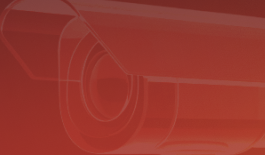
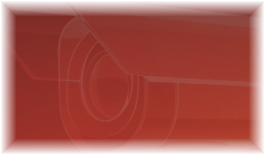
fix(visuals): eliminate rectangular artifacts, fix step wrapping, restore real technician photo and clean sphere photos

Changed region(s): [[0.0, 0.0, 1.0, 1.0]]

diff --git a/index.html b/index.html
@@ -299,7 +299,7 @@
             </p>
           </div>
 
-          <div class="relative w-full h-40 flex items-center justify-center mb-6">
+          <div class="relative w-full h-40 flex items-center justify-center mb-6 blend-hardware">
             <img src="/images/fire-figma.png" alt="Пожарная сигнализация" class="max-h-full object-contain filter drop-shadow-2xl transition-transform duration-300 group-hover:scale-105">
           </div>
 
@@ -320,7 +320,7 @@
             </p>
           </div>
 
-          <div class="relative w-full h-40 flex items-center justify-center mb-6">
+          <div class="relative w-full h-40 flex items-center justify-center mb-6 blend-hardware">
             <img src="/images/cctv-phone-figma.png" alt="Видеонаблюдение" class="max-h-full object-contain filter drop-shadow-2xl transition-transform duration-300 group-hover:scale-105">
           </div>
 
@@ -362,7 +362,7 @@
             </p>
           </div>
 
-          <div class="relative w-full h-40 flex items-center justify-center mb-6">
+          <div class="relative w-full h-40 flex items-center justify-center mb-6 blend-hardware">
             <img src="/images/sks-cables-figma.png" alt="СКС кабельные сети" class="max-h-full object-contain filter drop-shadow-2xl transition-transform duration-300 group-hover:scale-105">
           </div>
 
@@ -404,7 +404,7 @@
             </p>
           </div>
 
-          <div class="relative w-full h-40 flex items-center justify-center mb-6">
+          <div class="relative w-full h-40 flex items-center justify-center mb-6 blend-hardware">
             <img src="/images/project-doc-figma.png" alt="Проект и смета" class="max-h-full object-contain filter drop-shadow-2xl transition-transform duration-300 group-hover:scale-105">
           </div>
 
@@ -565,7 +565,7 @@
           <div class="stage-row is-active" data-step="1">
             <div class="flex flex-col sm:flex-row sm:items-baseline justify-between gap-4">
               <div class="flex items-center space-x-6">
-                <span class="font-mono text-sm px-3 py-1 border border-white/20 text-white/70 stage-num transition-colors">
+                <span class="font-mono text-sm px-3 py-1 border border-white/20 text-white/70 stage-num transition-colors whitespace-nowrap shrink-0">
                   [ 01 ]
                 </span>
                 <h3 class="stage-title font-condensed font-extrabold text-2xl sm:text-3xl uppercase text-white transition-colors">
@@ -582,7 +582,7 @@
           <div class="stage-row" data-step="2">
             <div class="flex flex-col sm:flex-row sm:items-baseline justify-between gap-4">
               <div class="flex items-center space-x-6">
-                <span class="font-mono text-sm px-3 py-1 border border-white/20 text-white/70 stage-num transition-colors">
+                <span class="font-mono text-sm px-3 py-1 border border-white/20 text-white/70 stage-num transition-colors whitespace-nowrap shrink-0">
                   [ 02 ]
                 </span>
                 <h3 class="stage-title font-condensed font-extrabold text-2xl sm:text-3xl uppercase text-white transition-colors">
@@ -599,7 +599,7 @@
           <div class="stage-row" data-step="3">
             <div class="flex flex-col sm:flex-row sm:items-baseline justify-between gap-4">
               <div class="flex items-center space-x-6">
-                <span class="font-mono text-sm px-3 py-1 border border-white/20 text-white/70 stage-num transition-colors">
+                <span class="font-mono text-sm px-3 py-1 border border-white/20 text-white/70 stage-num transition-colors whitespace-nowrap shrink-0">
                   [ 03 ]
                 </span>
                 <h3 class="stage-title font-condensed font-extrabold text-2xl sm:text-3xl uppercase text-white transition-colors">
@@ -616,7 +616,7 @@
           <div class="stage-row" data-step="4">
             <div class="flex flex-col sm:flex-row sm:items-baseline justify-between gap-4">
               <div class="flex items-center space-x-6">
-                <span class="font-mono text-sm px-3 py-1 border border-white/20 text-white/70 stage-num transition-colors">
+                <span class="font-mono text-sm px-3 py-1 border border-white/20 text-white/70 stage-num transition-colors whitespace-nowrap shrink-0">
                   [ 04 ]
                 </span>
                 <h3 class="stage-title font-condensed font-extrabold text-2xl sm:text-3xl uppercase text-white transition-colors">
@@ -633,7 +633,7 @@
           <div class="stage-row" data-step="5">
             <div class="flex flex-col sm:flex-row sm:items-baseline justify-between gap-4">
               <div class="flex items-center space-x-6">
-                <span class="font-mono text-sm px-3 py-1 border border-white/20 text-white/70 stage-num transition-colors">
+                <span class="font-mono text-sm px-3 py-1 border border-white/20 text-white/70 stage-num transition-colors whitespace-nowrap shrink-0">
                   [ 05 ]
                 </span>
                 <h3 class="stage-title font-condensed font-extrabold text-2xl sm:text-3xl uppercase text-white transition-colors">
@@ -727,7 +727,7 @@
         <div class="tech-card card-chamfered p-6 flex flex-col justify-between group">
           <div class="space-y-4">
             <div class="relative w-full h-48 bg-[#1A1D24] overflow-hidden photo-chamfered">
-              <img src="/images/sphere-commercial.png" alt="Промышленные и складские объекты" class="w-full h-full object-cover transition-transform duration-500 group-hover:scale-105">
+              <img src="/images/sphere-industrial.png" alt="Промышленные и складские объекты" class="w-full h-full object-cover transition-transform duration-500 group-hover:scale-105">
             </div>
             <h3 class="font-condensed font-bold text-2xl uppercase text-white leading-tight">
               ПРОМЫШЛЕННЫЕ И СКЛАДСКИЕ ОБЪЕКТЫ
@@ -791,7 +791,7 @@
         
         <!-- Case 1: БИЗНЕС-ЦЕНТР СБЕРБАНКА -->
         <div class="tech-card overflow-hidden group">
-          <div class="h-60 bg-brand-surface-light border-b border-white/10 relative overflow-hidden flex items-center justify-center p-6">
+          <div class="h-60 bg-brand-surface-light border-b border-white/10 relative overflow-hidden flex items-center justify-center p-6 blend-hardware">
             <div class="corner-tl"></div>
             <div class="corner-tr"></div>
             <div class="corner-bl"></div>
@@ -816,7 +816,7 @@
 
         <!-- Case 2: ЛОГИСТИЧЕСКИЙ ХАБ «ВОСТОК» -->
         <div class="tech-card overflow-hidden group">
-          <div class="h-60 bg-brand-surface-light border-b border-white/10 relative overflow-hidden flex items-center justify-center p-6">
+          <div class="h-60 bg-brand-surface-light border-b border-white/10 relative overflow-hidden flex items-center justify-center p-6 blend-hardware">
             <div class="corner-tl"></div>
             <div class="corner-tr"></div>
             <div class="corner-bl"></div>
@@ -841,7 +841,7 @@
 
         <!-- Case 3: ЖИЛОЙ КОМПЛЕКС «МАЯК» -->
         <div class="tech-card overflow-hidden group">
-          <div class="h-60 bg-brand-surface-light border-b border-white/10 relative overflow-hidden flex items-center justify-center p-6">
+          <div class="h-60 bg-brand-surface-light border-b border-white/10 relative overflow-hidden flex items-center justify-center p-6 blend-hardware">
             <div class="corner-tl"></div>
             <div class="corner-tr"></div>
             <div class="corner-bl"></div>

diff --git a/src/style.css b/src/style.css
@@ -287,6 +287,17 @@ body {
   clip-path: polygon(0 0, 100% 0, 100% calc(100% - 16px), calc(100% - 16px) 100%, 0 100%);
 }
 
+/* Smooth radial mask to blend hardware seamlessly with zero rectangular borders */
+.blend-hardware {
+  mask-image: radial-gradient(circle at center, black 55%, transparent 95%);
+  -webkit-mask-image: radial-gradient(circle at center, black 55%, transparent 95%);
+}
+
+.stage-num {
+  white-space: nowrap !important;
+  flex-shrink: 0 !important;
+}
+
 @keyframes float {
   0%, 100% {
     transform: translateY(0px);
